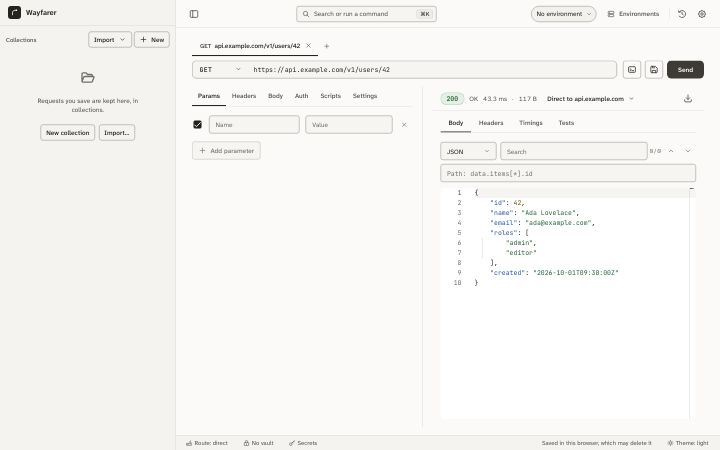
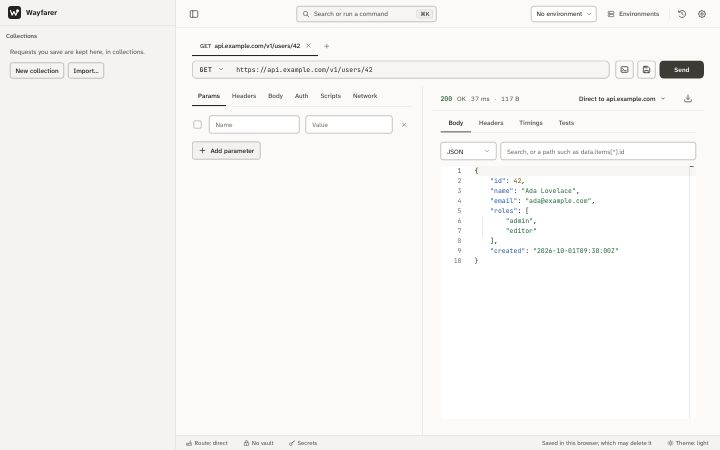
docs: retake the site's pictures, check the docs' control names, add getting started (W5.3)
The six stills of the landing are taken again from today's build;
site-screenshot.mjs waits for the response's body, the fonts and running
transitions instead of a fade D3.7 removed. scripts/doc-control-names.test.mjs
fails on a control a user doc names that no template, app string or e2e
spec holds; it found six retired names, now the app's. docs/getting-started.md
is linked from the README and opens the site's docs index under Start.

diff --git a/packages/site/src/lib/content.ts b/packages/site/src/lib/content.ts
@@ -12,10 +12,11 @@ const read = (path: string) => readFileSync(join(ROOT, path), "utf8");
 
 export const REPO = "https://github.com/AshwinSathian/wayfarer";
 
-/** The headings of /docs/, in order. A doc under docs/design/ is a design record; a doc not listed is a guide. */
-export const DOC_GROUPS = ["Guides", "Reference", "Trust", "Operations", "Design records"] as const;
+/** The headings of /docs/, in order: Start first, for a reader who is new. A doc under docs/design/ is a design record; a doc not listed is a guide. */
+export const DOC_GROUPS = ["Start", "Guides", "Reference", "Trust", "Operations", "Design records"] as const;
 export type DocGroup = (typeof DOC_GROUPS)[number];
 const GROUP_OF: Record<string, DocGroup> = {
+  "getting-started": "Start",
   "collections-schema": "Reference",
   "postman-compatibility": "Reference",
   storage: "Reference",

diff --git a/docs/getting-started.md b/docs/getting-started.md
@@ -1,0 +1,50 @@
+# Getting started
+
+<!-- description: Send a first request in Wayfarer, save it in a collection, move its address into an environment and keep an API key in the vault. -->
+
+Wayfarer opens at [wayfarer.ashwinsathian.com/app/](https://wayfarer.ashwinsathian.com/app/), or at `/app/` of
+[your own copy](self-hosting.md). There is nothing to install and no account to make. What you save stays in this
+browser's IndexedDB. <!-- claim:C-002 -->
+
+## Send a request
+
+Type an address in the address field, `https://httpbin.org/get` for instance, and press **Send** (⌘↵ on a Mac,
+Ctrl+Enter elsewhere). The method menu beside the address starts at `GET`. The response opens beside the request, or
+under it in a narrow window: the status line first (status, time, size, and where the request went), then the
+**Body**, **Headers**, **Timings** and **Tests** tabs. <!-- claim:C-022 -->
+
+The request goes from the page straight to that host. Wayfarer has no server of its own for it to pass through. <!-- claim:C-001 -->
+A server that does not allow requests from other sites (CORS) is a limit of the browser, and
+[the Local Bridge](browser-limits.md) is the way round it.
+
+## Keep it in a collection
+
+A request is saved into a collection. Make one with **New collection** in the sidebar, then press the save button
+beside the address (⌘S or Ctrl+S). **Save to collection** asks for the request's name, the collection, and a folder if
+you want one. Saved, the request is in the sidebar, and a click loads it into a tab. <!-- claim:C-024 -->
+
+Postman, Insomnia and OpenAPI files come in through Import in the sidebar, which shows what the file holds before
+anything is stored. <!-- claim:C-054 --> [Import](import.md) has the details.
+
+## Move the address into an environment
+
+An environment is a set of variables you switch between, such as Staging and Production. Open **Environments** in the
+toolbar (it opens in a tab), press + (**New environment**), type a name and press Enter. Then press
+**Add variable** and give it the name `baseUrl` and the value `https://httpbin.org`. The environment menu in the toolbar
+names the one in use; the first one you make is in use at once.
+
+Now write the address as `{{baseUrl}}/get`. The chips under the address show each variable, where its value comes
+from and the value. <!-- claim:C-025 --> A variable with no value holds the request back until you choose
+**Send anyway**. <!-- claim:C-045 --> [Variables](variables.md) covers the other places a value can come from.
+
+## Keep a key in the vault
+
+A variable's value is stored as plain text unless you lock it. Add a variable `apiKey` and press the lock at the end
+of its row. The first time, the row asks you to choose a passphrase for the vault (**Create vault**). The value is
+then encrypted in this browser, and the row says "Secret stored". <!-- claim:C-027 --> <!-- claim:C-003 -->
+
+Use it as `{{apiKey}}`, in a header or in the Auth tab. When you send, the vault fills in the value. A locked vault
+asks for its passphrase first. Nothing stored, exported or copied holds the value: history shows `***`, and a file
+holds only a reference to the secret. <!-- claim:C-007 --> The vault locks when you reload the page, and by default
+after 15 minutes without a key press or a click. <!-- claim:C-005 --> A passphrase you
+forget cannot be recovered. [Secrets](secrets.md) says how the vault works.

diff --git a/CHANGELOG.md b/CHANGELOG.md
@@ -9,6 +9,24 @@ and this project intends to adhere to [Semantic Versioning](https://semver.org/s
 
 ### Added
 
+- **A getting-started page.** `docs/getting-started.md` walks through a
+  first request, saving it in a collection, moving its address into an
+  environment and keeping a key in the vault, with the claim behind each
+  promise. The README links it, and the site's docs index opens with it
+  under Start. Before, a new reader had to piece the first steps together
+  from the reference pages.
+
+- **The docs name only controls the app has.** A test in
+  `npm run test:scripts` reads every control a user doc names (bold inside
+  a sentence, a short quoted label, a Settings path, "the X tab") and fails
+  on one that no template, no string of the app and no e2e spec holds. It
+  found six names the redesign had retired: "Export for Postman…" (now
+  Export…, then Postman v2.1), "Export with credentials" (now Include
+  credentials, in the Export dialog), "No auth" (None), "Must be JSON"
+  (Check it is JSON before sending), "Workspace backup" (Settings › Data
+  and storage, Back up) and a Tests tab line the app no longer writes. The
+  docs now use the app's names.
+
 - **History names the saved request an entry came from.** A row used to
   show only the method, the address and the status, so finding "the pets
   request from last week" meant remembering its URL. A send from a saved
@@ -443,6 +461,15 @@ and this project intends to adhere to [Semantic Versioning](https://semver.org/s
   test keeps that list equal to the app's.
 
 ### Fixed
+
+- **The site's pictures of the app show the app as it is now.** The
+  landing's screenshots, in both themes and on a phone, were taken before
+  the final design pass: they showed a Settings tab where the composer now
+  has Network, the sidebar's old empty state and a separate path field
+  under the response's search. They are taken again from today's build.
+  The script that takes them waited half a second for a fade the app no
+  longer has; it now waits for the response's body, the fonts and any
+  transition still running.
 
 - **You can choose No environment, and it stays chosen.** Once an
   environment existed, the toolbar's list offered only environments, so

diff --git a/docs/export.md b/docs/export.md
@@ -138,8 +138,8 @@ has ended: every exchange of it, masked as history is.
 
 <!-- claim:C-057 -->
 
-**A collection.** Right-click a collection and choose **Export for
-Postman…**. The file is a Postman Collection v2.1 file
+**A collection.** Right-click a collection and choose **Export…**, then
+**Postman v2.1** and **Export file**. The file is a Postman Collection v2.1 file
 (`<name>.postman_collection.json`), which Postman, Newman and most other
 API clients read.
 
@@ -148,7 +148,7 @@ API clients read.
 | The collection's name and description | `info` |
 | Its variables | `variable`; one that is switched off is `disabled` |
 | A folder, in a folder | an item that holds items |
-| Auth of the collection, a folder or a request | `auth`: `bearer`, `basic`, `apikey`, `awsv4`, `oauth2` (the code grant as `authorization_code_with_pkce`; no token is written, and "On a 401, get a new token" has no place in the format). "No auth" is `noauth`. "Inherit from parent" is no `auth` at all, which is how Postman says it |
+| Auth of the collection, a folder or a request | `auth`: `bearer`, `basic`, `apikey`, `awsv4`, `oauth2` (the code grant as `authorization_code_with_pkce`; no token is written, and "On a 401, get a new token" has no place in the format). "None" is `noauth`. "Inherit from parent" is no `auth` at all, which is how Postman says it |
 | A pre-request and a post-response script, at each of the three levels | `event`: `prerequest` and `test` |
 | The address | `url`, as typed and in the parts Postman sends by. A `{{variable}}` stays as typed. The query is the one in the address; a Params row that is switched off is there too, `disabled` |
 | Headers | `header`; a row that is switched off is `disabled` |

diff --git a/docs/trust-center.md b/docs/trust-center.md
@@ -65,7 +65,7 @@ sandboxing and the device's disk encryption. In particular:
   cannot be looked for.
 - **Collection exports mask credentials unless you ask for them in that
   export.** <!-- claim:C-014 --> That covers a request's, and the auth and
-  the variables a collection or a folder holds. "Export with credentials" writes them;
+  the variables a collection or a folder holds. "Include credentials", in the Export dialog, writes them;
   a vault secret is never in a file, only its reference.
 - **Vault secrets are sent as their plaintext when the vault is
   unlocked.** A locked vault asks for the passphrase first, and closing
@@ -210,8 +210,8 @@ is not affected by the site's uptime, because the site never holds it: it's
 in your browser's IndexedDB whether or not
 `https://wayfarer.ashwinsathian.com/` is reachable.
 
-That also means the only copy is in that browser. Settings, "Workspace
-backup", writes every collection, request, environment, the global
+That also means the only copy is in that browser. Settings ›
+Data and storage, "Back up", writes every collection, request, environment, the global
 variables and the vault (still encrypted) to one file, and restores from
 one. A restored collection's scripts are untrusted until approved, like any
 imported file. <!-- claim:C-046 --> The page reminds you when the last

diff --git a/docs/import.md b/docs/import.md
@@ -19,8 +19,8 @@ Every file reaches the app by one road, whichever Import button you press
 3. **Report.** A dialog shows what the file is, what it will add (how many
    collections, folders, requests and environments), and what of it could
    not be kept. **Nothing is stored yet.** <!-- claim:C-054 -->
-4. **Confirm.** *Import* stores it: each collection in one transaction, all
-   of it or none. *Cancel*, Escape or closing the dialog stores nothing.
+4. **Confirm.** **Import** stores it: each collection in one transaction, all
+   of it or none. **Cancel**, Escape or closing the dialog stores nothing.
 
 ## What the report warns about
 
@@ -78,8 +78,8 @@ Two ways in:
   request. What the command asked
   for that the app does not do is listed under the address until you send.
   Text that does not start with `curl` is pasted as text.
-- **Import it.** *Paste a cURL command*, in the response pane of an empty
-  tab, or *cURL command…* in the Collections panel's Import menu (there
+- **Import it.** **Paste a cURL command**, in the response pane of an empty
+  tab, or **cURL command…** in the Collections panel's Import menu (there
   once a collection exists) opens the import dialog with a box for the
   command. It then takes the road above:
   a report, and on Import a collection with the one request.

diff --git a/README.md b/README.md
@@ -7,7 +7,7 @@
 
 Wayfarer has no account, no server of its own and no telemetry. Your requests, collections, environments and history live in your browser's IndexedDB. The values you put in the secrets vault are encrypted, and everything else is stored as plain text. Export or back up whenever you want.
 
-**Use it:** https://wayfarer.ashwinsathian.com/ (a release is a tag; the deployed copy may be older), or [host it yourself](docs/self-hosting.md). What changed: [CHANGELOG](CHANGELOG.md).
+**Use it:** https://wayfarer.ashwinsathian.com/ (a release is a tag; the deployed copy may be older), or [host it yourself](docs/self-hosting.md). New to it: [Getting started](docs/getting-started.md). What changed: [CHANGELOG](CHANGELOG.md).
 
 ---
 
@@ -134,6 +134,7 @@ The optional [Local Bridge](packages/bridge/README.md) sends a request from a pr
 
 ## Docs
 
+- [Getting started](docs/getting-started.md): a first request, a collection, an environment and the vault, in that order
 - [Variables](docs/variables.md): scopes, `{{names}}`, and the values a request is sent with
 - [Auth](docs/auth.md): Bearer, Basic, API key, AWS Signature and OAuth 2.0, and what a folder or a collection passes down
 - [Scripts](docs/scripts.md): the sandbox, what `pm` offers, which scripts may run, and collection runs

diff --git a/docs/scripts.md b/docs/scripts.md
@@ -507,8 +507,9 @@ as the one before it left it. `pm.info.eventName` says which kind it is;
 `pm.info.requestName` names the request being sent.
 
 A pre-request script that ends in an error stops the send, whichever of them
-it is: no later script runs and nothing is sent. The Tests tab names it
-("Pre-request script of folder …"). A post-response script that ends in an
+it is: no later script runs and nothing is sent. The Tests tab names it by
+its kind and where it is from (a folder's, the collection's or the
+request's own). A post-response script that ends in an
 error is a failed row, and the ones after it still run.
 
 The question about another host (above) compares the request before the

diff --git a/docs/browser-limits.md b/docs/browser-limits.md
@@ -277,7 +277,7 @@ shows the connection in place of a request's panels and its response.
   server chose. A name that is not a token is refused by the browser, and
   the tab shows the browser's reason.
 - **Messages** are text. `{{variables}}` are replaced in the address and in
-  a message. "Must be JSON" holds back a message that does not parse.
+  a message. "Check it is JSON before sending", ticked, holds back a message that does not parse.
   A binary message that arrives is logged with its size, not its bytes;
   none can be sent.
 - **A vault secret cannot be sent.** The vault is not read for a WebSocket,
